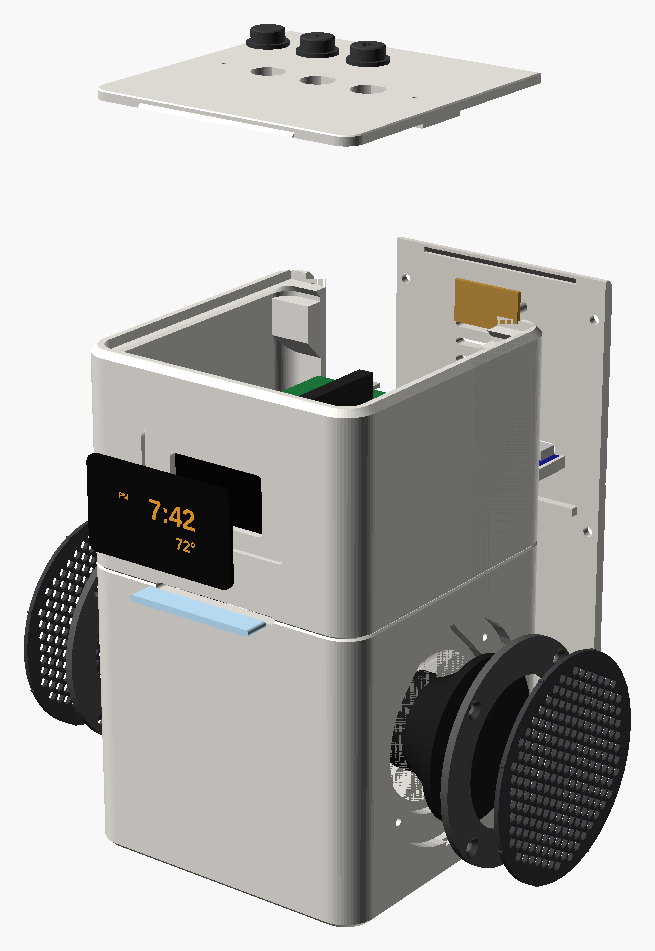
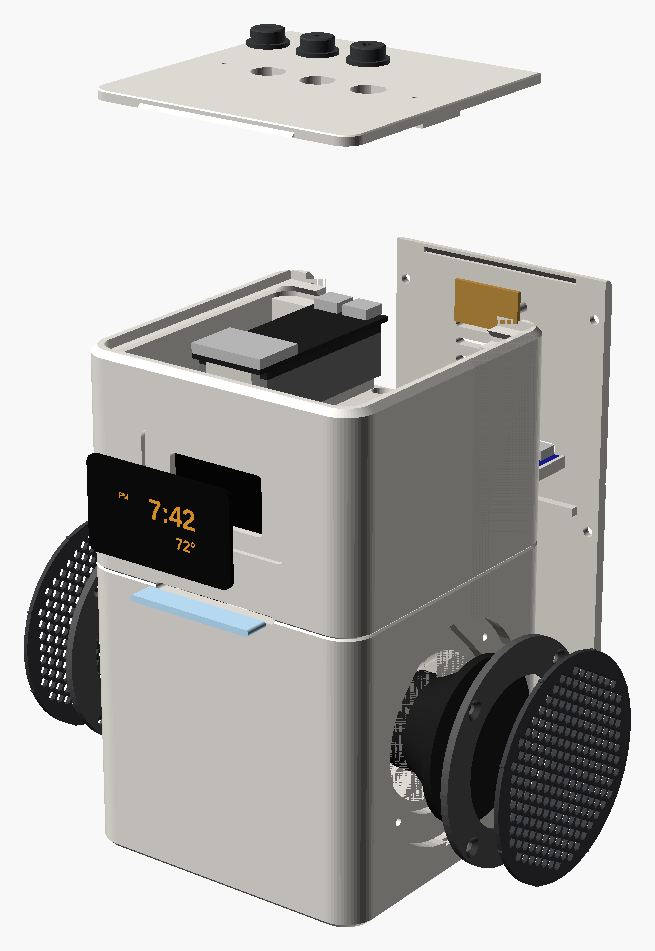
Enclosure: a brain option, with a cradle for the ESP32-S3
brain = "esp32_s3" (default) or "pi_zero_2w". The DevKitC-1 sits pins
down on a printed cradle that screws to the Pi's standoffs, leaving room
underneath for the harness plugs, with its USB ports towards the back
opening. The model checks and the renders cover the new part.

Claude-Session: https://claude.ai/code/session_01XTqiLJMtKEvdiCWSafvxVC

Changed region(s): [[0.2748, 0.3049, 0.6107, 0.4269]]

diff --git a/hardware/enclosure/README.md b/hardware/enclosure/README.md
@@ -14,7 +14,7 @@ A 100 × 100 × 160 mm tower, close to the footprint of the NS-CSPGASP it replac
   three buttons and two microphones and no visible fasteners.
 - **Back panel**: the only screwed-on part. It carries the port, USB-C power and the
   microphone mute button, and it locks the top plate in place. Take it off to reach
-  the Pi and its microSD card.
+  the brain: its USB port on the ESP32-S3, its microSD card on the Pi.
 
 Everything is in [`main_body.scad`](main_body.scad) (OpenSCAD 2021.01 or newer). It
 is parametric: the dimensions of your drivers, the display type and the bass
@@ -46,7 +46,8 @@ Other settings you might change:
 
 | Parameter | Default | Options |
 |---|---|---|
-| `display_type` | `oled_1_3` | `oled_2_42` (larger window, SSD1309) or `tm1637` (4-digit 7-segment) |
+| `brain` | `esp32_s3` | `pi_zero_2w`. The deck is the same for both; the ESP32-S3 adds the printed `esp32_cradle`. |
+| `display_type` | `oled_1_3` | `oled_2_42` (larger window, SSD1309) or `tm1637` (4-digit 7-segment, Pi only) |
 | `bass_mode` | `port` | `passive_radiator` (set `radiator_*` to your radiator) or `sealed` |
 | `port_tuning_hz` | 120 | The port length is calculated from the chamber volume |
 | `grille_pattern` | `hex` | `rings` |
@@ -78,7 +79,8 @@ are 45 degrees or less, and horizontal holes have pointed or bridged tops.
 |---|:-:|---|---|
 | `body` | 1 | Upright, bottom on the bed | ~300 g, needs 160 mm of Z height. Enable bridging: the tops of the display opening and light slot are bridges. |
 | `back_panel` | 1 | Outside face down | Port tube, USB-C shelf and mute button bosses point up |
-| `deck` | 1 | As exported | Chamber lid; carries the Pi, the amplifiers and the LED strip |
+| `deck` | 1 | As exported | Chamber lid; carries the brain, the amplifiers and the LED strip |
+| `esp32_cradle` | ESP32-S3 only | As exported | Holds the ESP32-S3-DevKitC-1 on the deck's standoffs |
 | `top_plate` | 1 | Upside down (exported that way) | The bed texture becomes the top surface |
 | `grille` | 2 | Outside face down | Crush ribs on the rim make it a press fit |
 | `clamp_ring` | 2 | Countersinks up | Not needed with `speaker_mount = "holes"` |
@@ -99,7 +101,7 @@ Links and prices are in the [bill of materials](../../docs/BOM.md).
 | M3 × 8 countersunk hex socket (ISO 10642) | 6 | Back panel |
 | M3 × 8 countersunk | 8 | Clamp rings. They cut their own thread in the side walls. |
 | M3 × 10 countersunk | 4 | Deck to the side blocks (self-tapping) |
-| M2.6 × 6 self-tapping pan head, or M2.5 × 6 | 4 | Pi Zero 2 W to the deck standoffs |
+| M2.6 × 6 self-tapping pan head, or M2.5 × 6 | 4 | The Pi, or the ESP32-S3's cradle, to the deck standoffs |
 | M2 × 6 self-tapping | 4 | Switch boards (top plate and back panel) |
 | Omron B3F-1000 tactile switches, 6 × 6 mm | 4 | Through-hole, 4.3 mm from the board to the top of the plunger (`switch_height`) |
 | Perfboard, 2.54 mm pitch | 50 × 12 mm and 24 × 14 mm | The three top switches sit 7 holes apart |
@@ -121,7 +123,13 @@ the paths the deck and the display take on their way in.
 
 1. **Inserts.** Press the six M3 inserts into the pillars beside the back opening
    (soldering iron at about 220 °C).
-2. **Deck.** Screw the Pi to the standoffs with the microSD slot facing the back.
+2. **Deck.** Screw the brain to the standoffs:
+   - **ESP32-S3:** screw the `esp32_cradle` down (the screw heads sit below its
+     surface). Set the DevKitC on its rib, pins down and USB ports towards the
+     back, and hold it with a dab of hot glue at each end; it peels off again.
+     The harness plugs onto its pins from below.
+   - **Pi:** microSD slot towards the back.
+
    Fix the amplifiers in their cradles with a dab of hot glue and stick the 3-LED
    strip to the fin, LEDs facing forward. Thread two pairs of speaker wire (~15 cm)
    down through the wire hole. Run foam tape along the top of the chamber ledge.
@@ -141,7 +149,7 @@ the paths the deck and the display take on their way in.
 6. **Top plate.** Drop the caps into their holes. Screw the switch strip onto the
    two bosses (2 × M2 × 6). Glue the INMP441 boards into their pockets with the
    sound hole over the port; a small foam ring around the port seals it. Wire
-   everything to the Pi. Slide the plate's front tongue into the groove behind the
+   everything to the brain. Slide the plate's front tongue into the groove behind the
    front wall, then lower the back of the plate.
 7. **Back panel.** Glue the USB-C breakout onto its shelf, receptacle against the
    panel. Screw on the mute switch board with its cap. Run foam tape along the
@@ -171,5 +179,5 @@ complete build, from the teardown to software, is in
 - **No visible fasteners on the front, sides or top.** Screws hide under the
   grilles, and the top plate is held by tongues. The six countersunk screws are all
   on the back.
-- **Heat.** The Pi Zero 2 W sits on the deck under the vents in the back panel. The
-  vents open into the head, which is sealed off from the chamber.
+- **Heat.** The brain sits on the deck under the vents in the back panel. The vents
+  open into the head, which is sealed off from the chamber.
